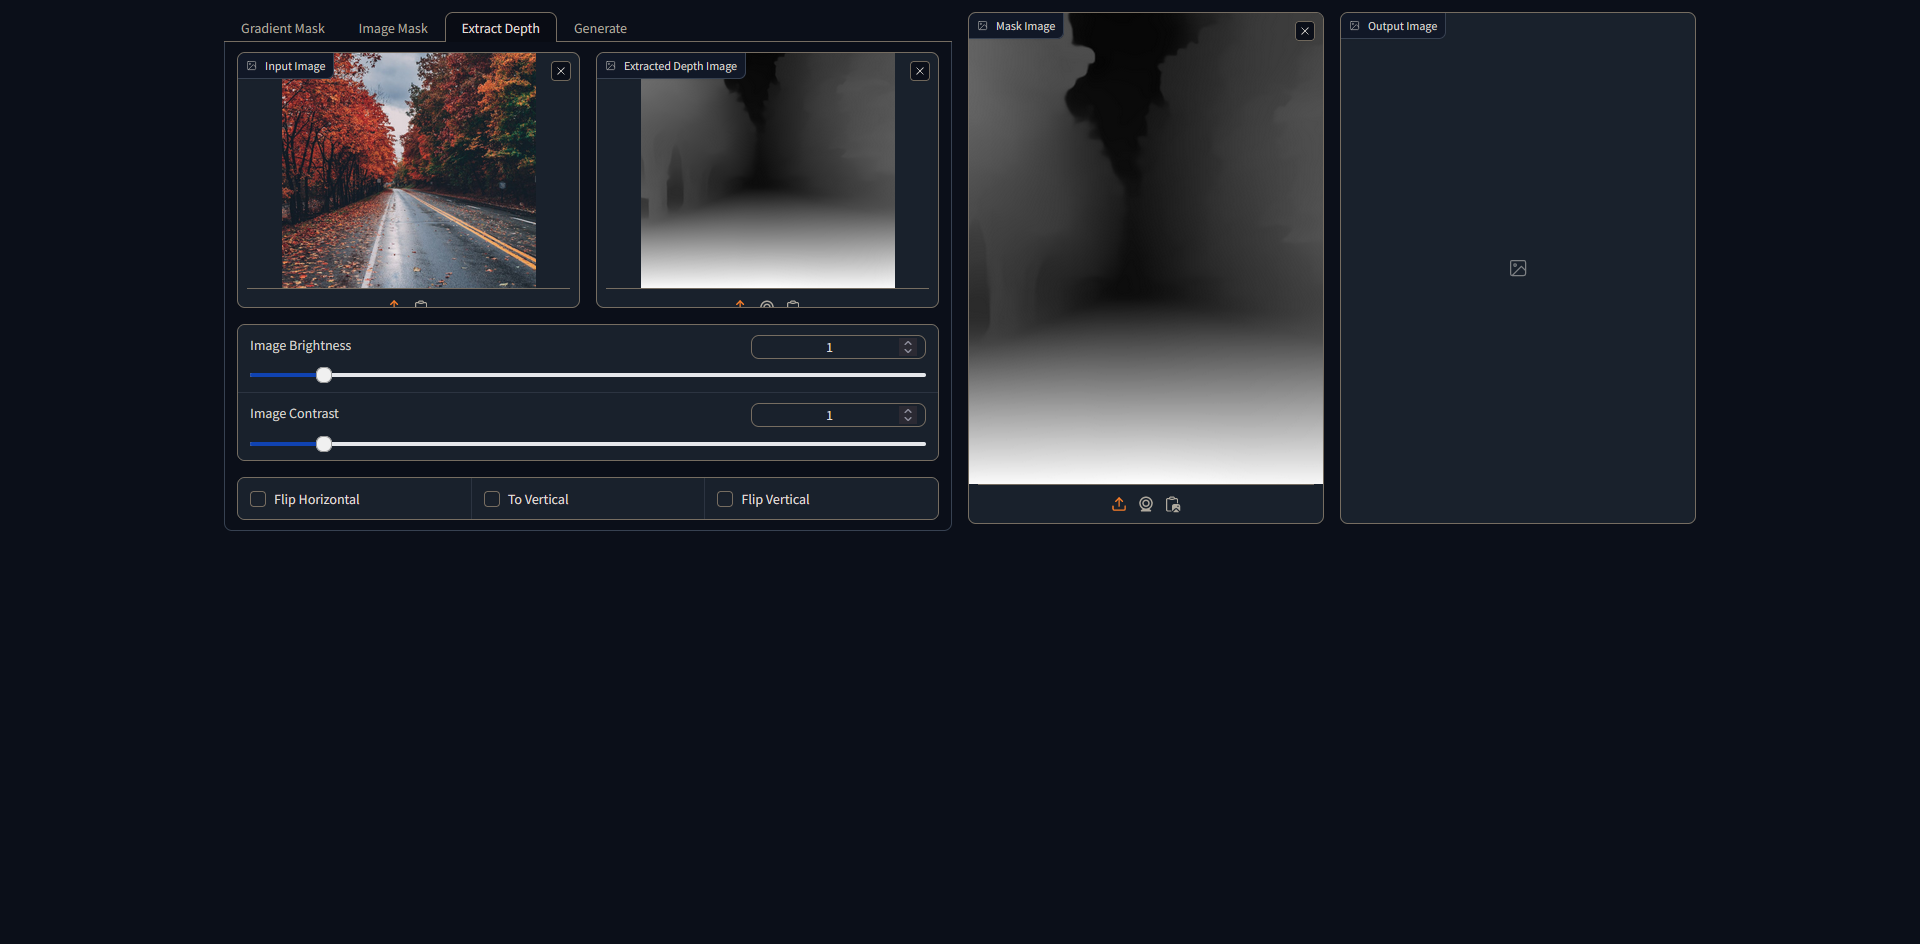
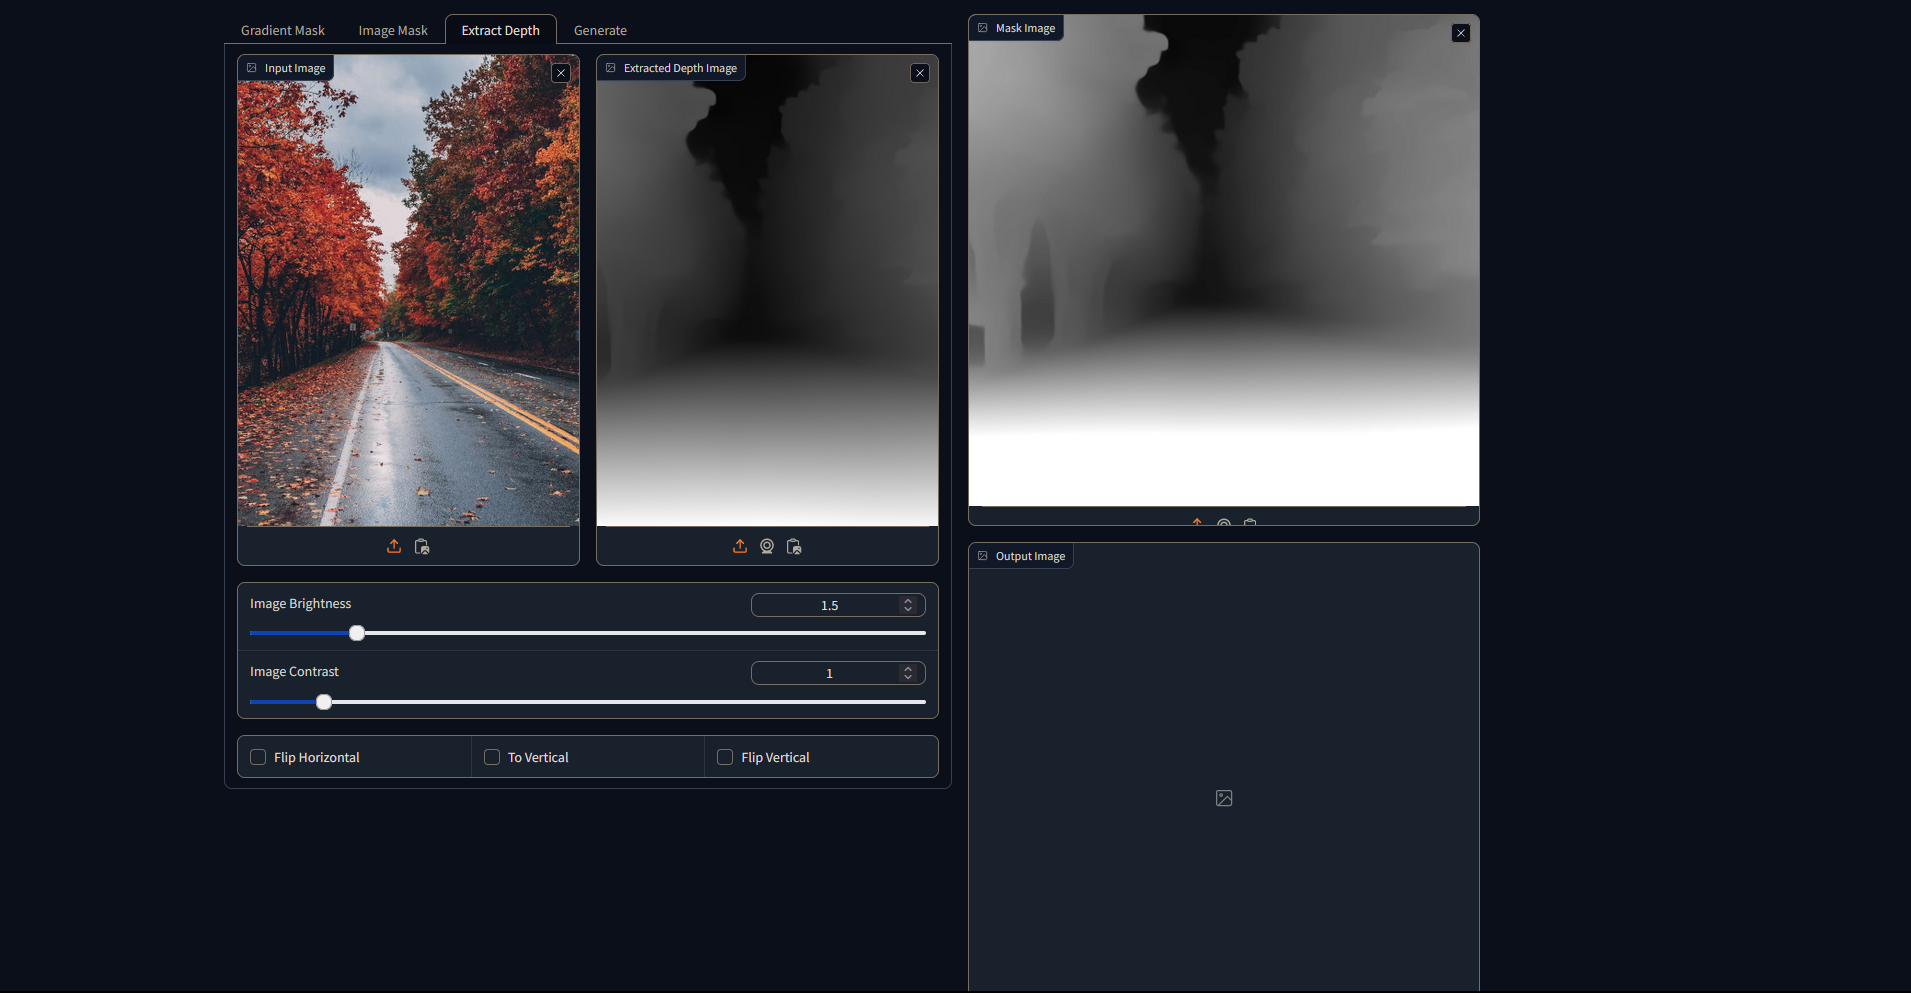
UI positions are updated & image defaults are added

Changed region(s): [[0.1235, 0.0, 0.8027, 0.7987]]

diff --git a/examples/gradio/main.py b/examples/gradio/main.py
@@ -7,6 +7,30 @@ from tabs.image_mask_tab import ImageMaskTab
 from tabs.generate_tab import GenerateTab
 from tabs.extract_depth_tab import ExtractDepthTab
 
+from importlib.util import find_spec
+
+
+def check_package(package_name: str) -> None:
+    if find_spec(package_name):
+        print(f"/_\ {package_name} is found")
+    else:
+        print(
+            f"/_\ {package_name} is not found. Please install the {package_name} with pip"
+        )
+        exit(1)
+
+
+print(" Differential Diffusion Gradio Example ".center(100, "-"))
+print("/_\ Checking Packages")
+
+check_package("diffusers")
+check_package("transformers")
+check_package("accelerate")
+check_package("torch")
+check_package("gradio")
+
+print("/_\ Launching example")
+
 gradient_tab = GradientTab()
 image_mask_tab = ImageMaskTab()
 extract_depth_tab = ExtractDepthTab()
@@ -26,8 +50,9 @@ with Blocks() as example:
         with Tab("Generate") as tab_generate:
             generate_tab.render()
 
-        with Row():
+        with Column():
             mask_image = Image(
+                value=gradient_calculate(512, 512, 1.0, 1.0, 1.0, False, False, False),
                 sources=None,
                 label="Mask Image",
                 width=512,
@@ -85,6 +110,7 @@ with Blocks() as example:
     image_mask_tab.attach_event(mask_image)
     extract_depth_tab.attach_event(mask_image)
     generate_tab.attach_event(mask_image, output_image)
+
 
 if __name__ == "__main__":
     example.launch()

diff --git a/examples/gradio/tabs/extract_depth_tab.py b/examples/gradio/tabs/extract_depth_tab.py
@@ -16,14 +16,17 @@ class ExtractDepthTab:
         self.wanted_image = Image(
             sources=["upload", "clipboard"],
             type="pil",
-            width=256,
-            height=256,
+            width=512,
+            height=512,
             label="Input Image",
         )
 
+        from os.path import join
+
         self.extracted_depth_image = Image(
-            width=256,
-            height=256,
+            value=pil_image.open(join("assets", "map2.jpg")),
+            width=512,
+            height=512,
             type="pil",
             label="Extracted Depth Image",
             sources=None,

diff --git a/examples/gradio/gradio_example.md b/examples/gradio/gradio_example.md
@@ -6,7 +6,7 @@
 - Generate gradient mask on runtime.
 - Import the mask image.
 - Extract the depth image from the given image with [Intel/dpt-large](https://huggingface.co/Intel/dpt-large) model.
-- Brightness, contrast and image transform functionalities for the above mask images.
+- Brightness, contrast and image transform functionalities for the mask images.
 - Generate output with input image, positive and negative prompts, guidance scale, strength, number of inference steps parameters.
 
 ## Required Packages
@@ -41,7 +41,7 @@
 |      To Vertical      | Rotate the gradient mask image 90 degrees clockwise |
 |     Flip Vertical     | Flip the gradient mask image vertically             |
 
-- ```Mask Image``` ,can be seen on the right, is updated when any variable ,except ```Gradient Mask```, value is changed
+- ```Mask Image``` is updated when any variable ,except ```Gradient Mask```, value is changed
 
 ### Image Mask
 
@@ -56,7 +56,7 @@
 |   To Vertical    | Rotate the input mask image 90 degrees clockwise             |
 |  Flip Vertical   | Flip the input mask image vertically                         |
 
-- ```Mask Image``` ,can be seen on the right, is updated when any variable value is changed
+- ```Mask Image``` is updated when any variable value is changed
 
 ### Extract Depth
 
@@ -72,7 +72,7 @@
 |      To Vertical      | Rotate the extracted depth image 90 degrees clockwise   |
 |     Flip Vertical     | Flip the extracted depth image vertically               |
 
-- ```Mask Image``` ,can be seen on the right, is updated when any variable ,except ```Extracted Depth Image```, value is changed
+- ```Mask Image``` is updated when any variable ,except ```Extracted Depth Image```, value is changed
 
 ### Generate
 
